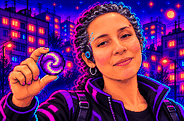
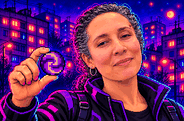
Porträts nach Teil in der Hand: portraits.json steuert, wer was übergibt
Claude-Session: https://claude.ai/code/session_01GtwohXY42jysSmAk5XgZcY

diff --git a/App/Sources/GameScene.swift b/App/Sources/GameScene.swift
@@ -810,7 +810,7 @@ final class GameScene: SKScene {
             fx.flash(at: c, color: .white)
             audio.play(.powerUp, volume: 0.45)
             if creation.special == .hyper {
-                var delivery = SplashPresenter.Delivery(contact: Contact.random(for: Contact.contact(for: creation.special)), item: itemTexture(for: creation.special))
+                var delivery = SplashPresenter.Delivery(contact: Contact.random(delivering: creation.special), item: itemTexture(for: creation.special))
                 delivery.onHandover = { [weak self, weak node] start in
                     guard let self, let node else { return }
                     self.flyItem(self.itemTexture(for: .hyper), from: start, to: { [weak node] in node?.position }) { [weak self, weak node] in
@@ -1227,14 +1227,14 @@ final class GameScene: SKScene {
         func icon(_ kind: PowerUp) -> SKNode {
             SKSpriteNode(texture: iconTextures[kind], size: CGSize(width: 16, height: 16))
         }
-        func radio(_ contact: Contact, _ item: SKTexture?) -> () -> Void {
+        func radio(_ pick: @escaping () -> Contact, _ item: SKTexture?) -> () -> Void {
             { [weak self] in
                 guard let self else { return }
-                let delivery = SplashPresenter.Delivery(contact: Contact.random(for: contact), item: item ?? SKTexture())
+                let delivery = SplashPresenter.Delivery(contact: pick(), item: item ?? SKTexture())
                 self.splash.present(delivery, at: self.clock, force: true, ignoreSettings: true)
             }
         }
-        func radioFor(_ kind: PowerUp) -> () -> Void { radio(Contact.contact(for: kind), iconTextures[kind]) }
+        func radioFor(_ kind: PowerUp) -> () -> Void { radio({ Contact.random(delivering: kind) }, iconTextures[kind]) }
         let powerUps: [HelpPanel.Entry] = [
             .init(icon: icon(.bombe), title: "BOMBE", badge: percent(.bombe),
                   lines: ["FELD ANTIPPEN: SPRENGT 3X3."], onTap: radioFor(.bombe)),
@@ -1260,11 +1260,11 @@ final class GameScene: SKScene {
         let specials: [HelpPanel.Entry] = [
             .init(icon: lineStone, title: "LINIEN-STEIN", badge: "",
                   lines: ["4 IN EINER REIHE. RÄUMT DIE", "GANZE ZEILE ODER SPALTE AB."],
-                  onTap: radio(Contact.contact(for: .line(horizontal: true)), nil)),
+                  onTap: radio({ Contact.random(delivering: .line(horizontal: true)) }, nil)),
             .init(icon: bombStone, title: "BOMBEN-STEIN", badge: "",
-                  lines: ["L- ODER T-FORM. SPRENGT 3X3."], onTap: radio(Contact.contact(for: .bomb), nil)),
+                  lines: ["L- ODER T-FORM. SPRENGT 3X3."], onTap: radio({ Contact.random(delivering: .bomb) }, nil)),
             .init(icon: hyper, title: "HYPERSTEIN", badge: "",
-                  lines: ["5 IN EINER REIHE. TAUSCHEN", "LÖSCHT EINE GANZE FARBE."], onTap: radio(Contact.contact(for: .hyper), nil)),
+                  lines: ["5 IN EINER REIHE. TAUSCHEN", "LÖSCHT EINE GANZE FARBE."], onTap: radio({ Contact.random(delivering: .hyper) }, nil)),
         ]
         let version = (Bundle.main.infoDictionary?["CFBundleShortVersionString"] as? String) ?? "0.1.0"
         let info: [HelpPanel.Block] = [
@@ -1443,7 +1443,7 @@ final class GameScene: SKScene {
                 self.haptics.select()
             }
         }
-        var delivery = SplashPresenter.Delivery(contact: Contact.random(for: Contact.contact(for: kind)), item: icon)
+        var delivery = SplashPresenter.Delivery(contact: Contact.random(delivering: kind), item: icon)
         delivery.onHandover = land
         if !splash.present(delivery, at: clock, force: true) {
             land(CGPoint(x: figure.position.x, y: figure.position.y + 6))

diff --git a/App/Sources/Splash/Contact.swift b/App/Sources/Splash/Contact.swift
@@ -75,6 +75,38 @@ struct Contact: Equatable {
         ([base] + (variants[base.id] ?? [])).randomElement() ?? base
     }
 
+    // MARK: Wer hält was in der Hand
+
+    /// Aus `portraits.json` (tools/import_portraits.py, ein Ordner je Teil): Schlüssel des Teils → Porträt-IDs.
+    static let holders: [String: [String]] = {
+        guard let url = Bundle.main.url(forResource: "portraits", withExtension: "json"),
+              let data = try? Data(contentsOf: url),
+              let map = try? JSONDecoder().decode([String: [String]].self, from: data) else { return [:] }
+        return map
+    }()
+
+    static func itemKey(_ special: Special) -> String {
+        switch special {
+        case .line: return "linienstein"
+        case .bomb: return "bombenstein"
+        case .hyper: return "hyperstein"
+        }
+    }
+
+    /// Zufälliges Porträt, das genau dieses Teil in der Hand hält; ohne Zuordnung der zuständige Kontakt.
+    static func random(holding key: String, fallback: Contact) -> Contact {
+        let ids = holders[key] ?? []
+        return allWithVariants.filter { ids.contains($0.id) }.randomElement() ?? random(for: fallback)
+    }
+
+    static func random(delivering special: Special) -> Contact {
+        random(holding: itemKey(special), fallback: contact(for: special))
+    }
+
+    static func random(delivering powerUp: PowerUp) -> Contact {
+        random(holding: powerUp.rawValue, fallback: contact(for: powerUp))
+    }
+
     /// Wer welchen Spezialstein liefert.
     static func contact(for special: Special) -> Contact {
         switch special {

diff --git a/tools/import_portraits.py b/tools/import_portraits.py
@@ -5,10 +5,15 @@ Erwartet Querformat-Bilder (ca. 3:2). Ausgabe: App/Resources/portrait_<id>.png i
 Palette auf 128 Farben reduziert, damit sie neben der übrigen Pixel-Art bestehen.
 Dateinamen werden auf die Kontakt-IDs abgebildet (mama-zora → zora, robo-7 → robo).
 
+Ordner je Teil in der Hand (empfohlen): <Ordner>/<Teil>/portrait_*.png, z. B. Bombe/, Bombenstein/, Strudel/.
+Dann schreibt das Skript App/Resources/portraits.json: welches Porträt welches Teil hält. Ein Funkspruch zeigt
+nur Porträts, die genau das übergebene Teil in der Hand haben.
+
 Varianten (alternative Porträts, die einen Kontakt zufällig vertreten):
     portrait_<kontakt>--<name>--<stimme>.png    z. B. portrait_boris--ivan--mann-tief.png
 Stimmen: mann, mann-tief, frau, maedchen, junge, alt, hund, katze, roboter
 """
+import json
 import sys
 from pathlib import Path
 from PIL import Image, ImageEnhance
@@ -17,10 +22,15 @@ OUT = Path(__file__).resolve().parent.parent / "App/Resources"
 SIZE = (184, 121)
 ALIASES = {"mama-zora": "zora", "mamazora": "zora", "robo-7": "robo", "robo7": "robo", "k-9": "k9"}
 IDS = {"kira", "boris", "juki", "zora", "k9", "robo"}
+# Ordnername → Schlüssel im Spiel (PowerUp.rawValue bzw. Spezialstein)
+ITEMS = {"atombombe": "atom", "atom": "atom", "bombe": "bombe", "farbtilger": "farbtilger", "fresser": "fresser",
+         "strudel": "strudel", "bombenstein": "bombenstein", "hyperstein": "hyperstein", "linienstein": "linienstein"}
+# Korrekturen an Dateinamen (Momo ist eine Katze)
+RENAME = {"k9--momo--hund": "k9--momo--katze"}
 VOICES = {"mann", "mann-tief", "frau", "maedchen", "junge", "alt", "hund", "katze", "roboter"}
 
 
-def convert(src: Path) -> Path | None:
+def convert(src: Path) -> str | None:
     name = src.stem.lower().removeprefix("portrait_")
     parts = name.split("--")
     cid = ALIASES.get(parts[0], parts[0])
@@ -33,7 +43,7 @@ def convert(src: Path) -> Path | None:
         if voice not in VOICES:
             print(f"übersprungen: {src.name} (unbekannte Stimme „{voice}“, erlaubt: {', '.join(sorted(VOICES))})")
             return None
-        cid = f"{cid}--{variant}--{voice}"
+        cid = RENAME.get(f"{cid}--{variant}--{voice}", f"{cid}--{variant}--{voice}")
     elif len(parts) != 1:
         print(f"übersprungen: {src.name} (Format: portrait_<kontakt>--<name>--<stimme>.png)")
         return None
@@ -54,13 +64,26 @@ def convert(src: Path) -> Path | None:
     out = OUT / f"portrait_{cid}.png"
     pixel.save(out)
     print(f"{src.name} → {out.relative_to(OUT.parent.parent)}")
-    return out
+    return cid
 
 
 def main():
     folder = Path(sys.argv[1]) if len(sys.argv) > 1 else Path(".")
-    for src in sorted(folder.glob("portrait_*.png")):
-        convert(src)
+    holders: dict[str, list[str]] = {}
+    for sub in sorted(p for p in folder.iterdir() if p.is_dir() and not p.name.startswith("__")):
+        key = ITEMS.get(sub.name.lower())
+        if key is None:
+            print(f"Ordner übersprungen: {sub.name} (bekannt: {', '.join(sorted(ITEMS))})")
+            continue
+        for src in sorted(sub.glob("portrait_*.png")):
+            if cid := convert(src):
+                holders.setdefault(key, []).append(cid)
+    if holders:
+        (OUT / "portraits.json").write_text(json.dumps(holders, indent=2, ensure_ascii=False) + "\n")
+        print(f"portraits.json: {', '.join(f'{k} {len(v)}' for k, v in sorted(holders.items()))}")
+    else:
+        for src in sorted(folder.glob("portrait_*.png")):
+            convert(src)
 
 
 if __name__ == "__main__":

diff --git a/README.md b/README.md
@@ -90,6 +90,9 @@ Abschaltbar in den Einstellungen – dann fliegt das Power-up von der Figur ins 
 - **Varianten:** `portrait_<kontakt>--<name>--<stimme>.png` (z. B. `portrait_boris--ivan--mann-tief.png`) vertritt den
   Kontakt zufällig, mit eigenem Namen und eigener Stimme. Stimmen: `mann`, `mann-tief`, `frau`, `maedchen`, `junge`,
   `alt`, `hund`, `katze`, `roboter`. Ebenfalls mit `tools/import_portraits.py` einspielen.
+- **Wer hält was:** Liegen die Bilder in Ordnern je Teil (`Atombombe/`, `Bombe/`, `Bombenstein/`, `Farbtilger/`,
+  `Fresser/`, `Hyperstein/`, `Linienstein/`, `Strudel/`), schreibt das Skript `App/Resources/portraits.json`.
+  Ein Funkspruch zeigt dann nur Porträts, die genau das übergebene Teil in der Hand haben.
 - **Stimmen:** Ohne Datei spricht ein Synthesizer: KIRA und JUKI hell (Mädchen), MAMA ZORA (Frau, mit Vibrato),
   BORIS tief (Mann), K-9 bellt, knurrt und winselt, ROBO-7 spricht in Tonstufen mit Piepsern.
   Eigene Aufnahmen im Sound-Labor auf die Plätze `voiceKira` … `voiceRobo` ziehen; sie bekommen automatisch Funkklang
